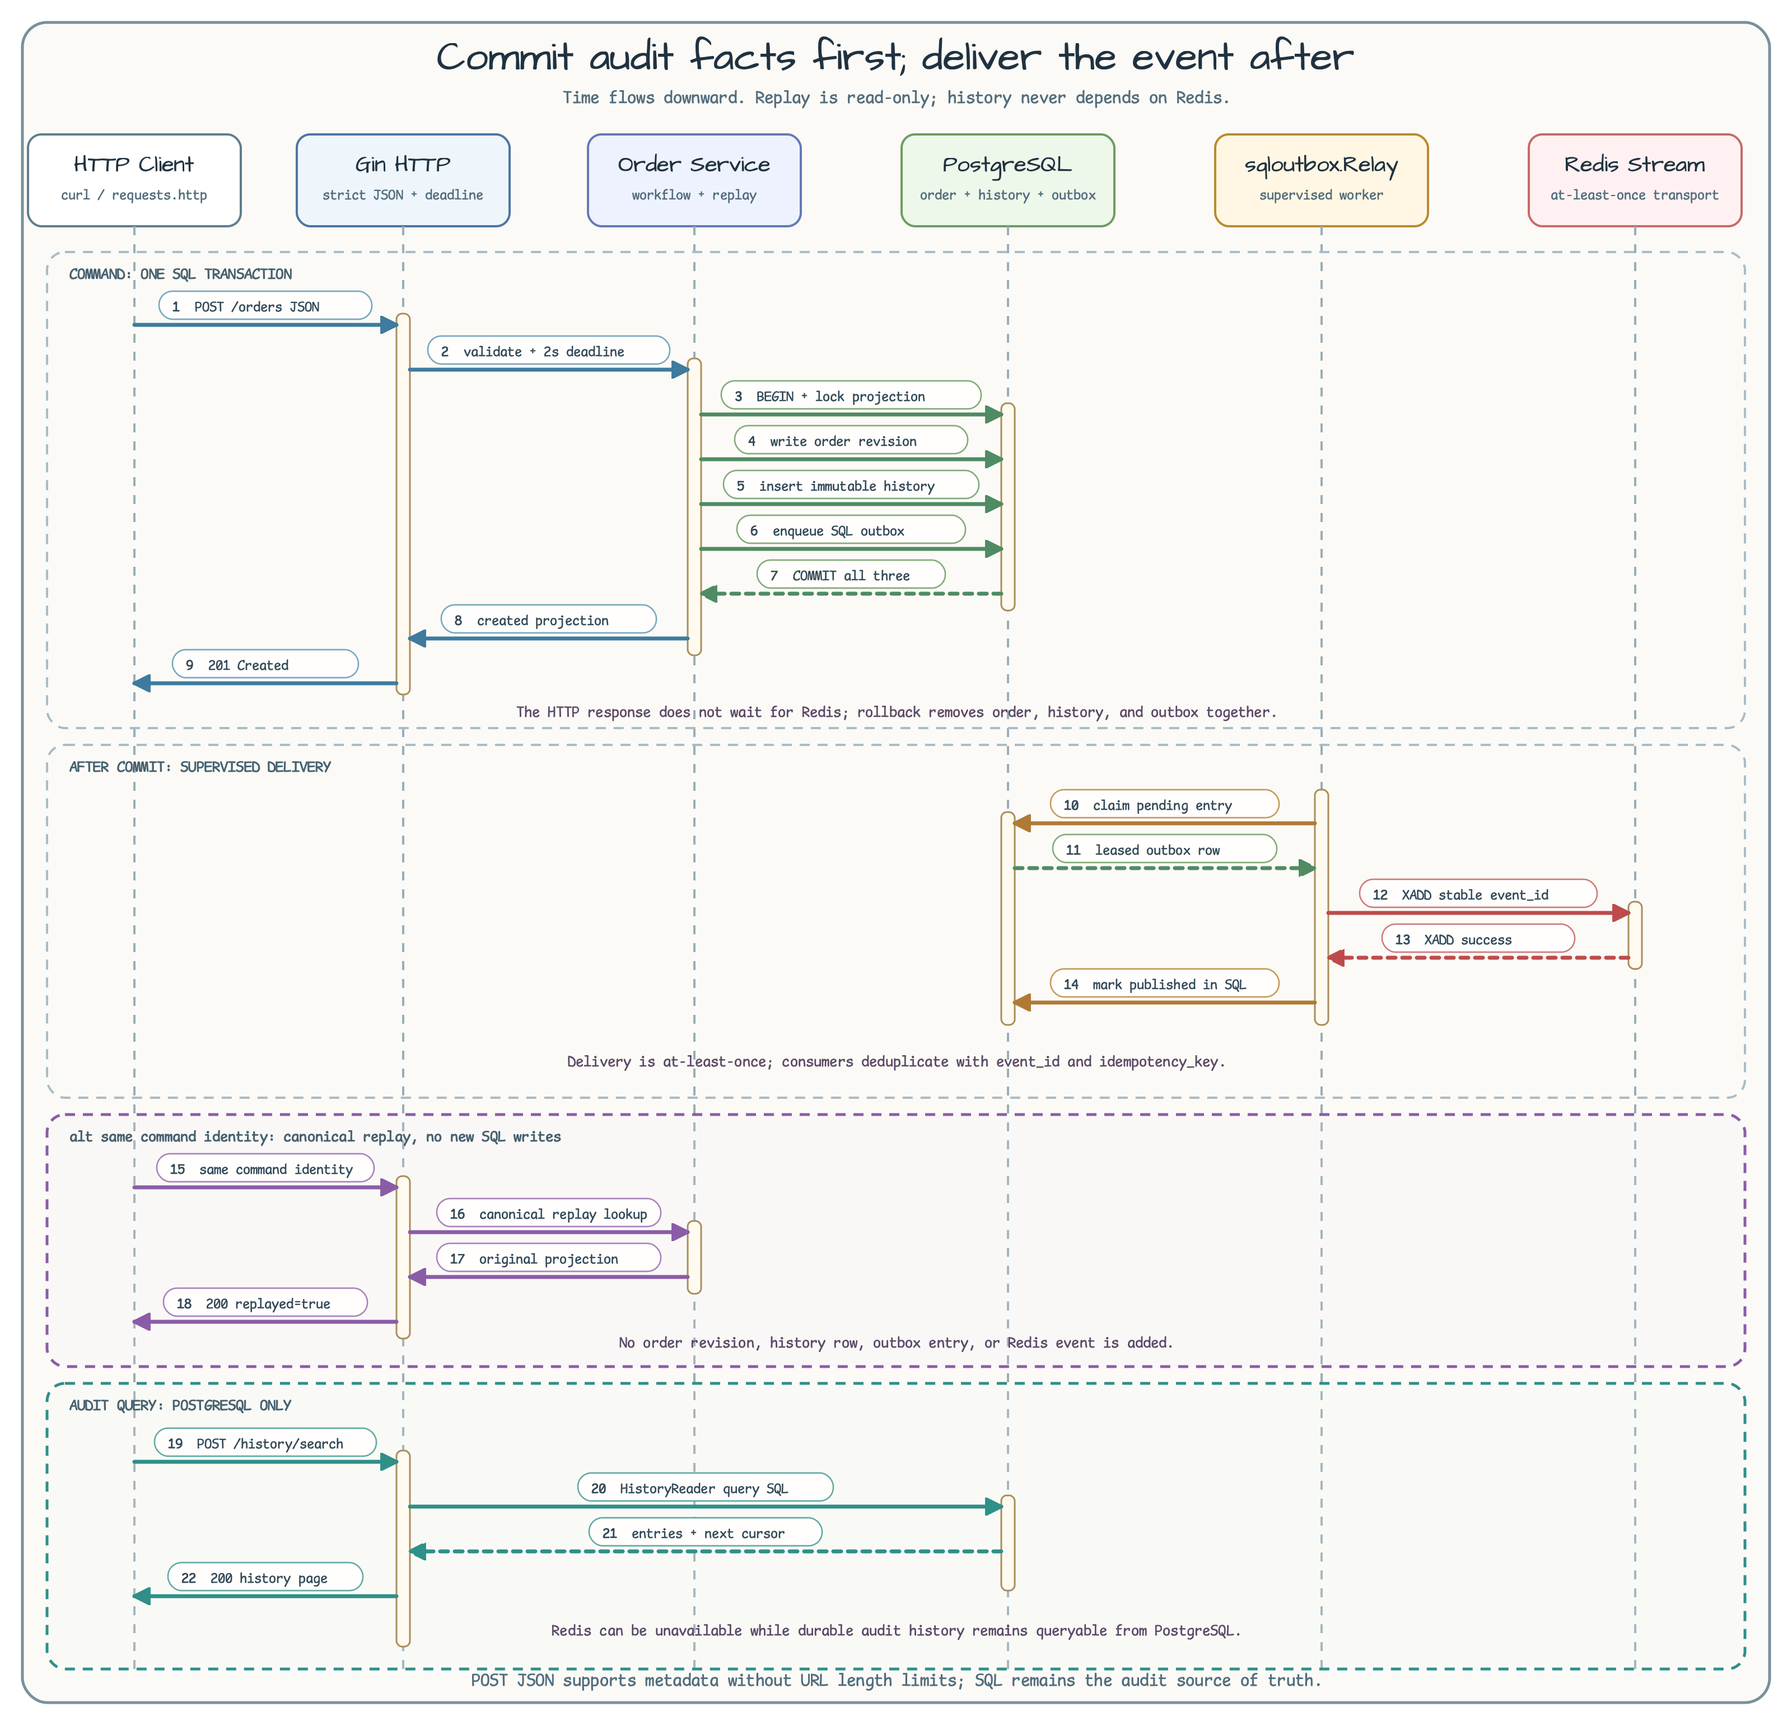
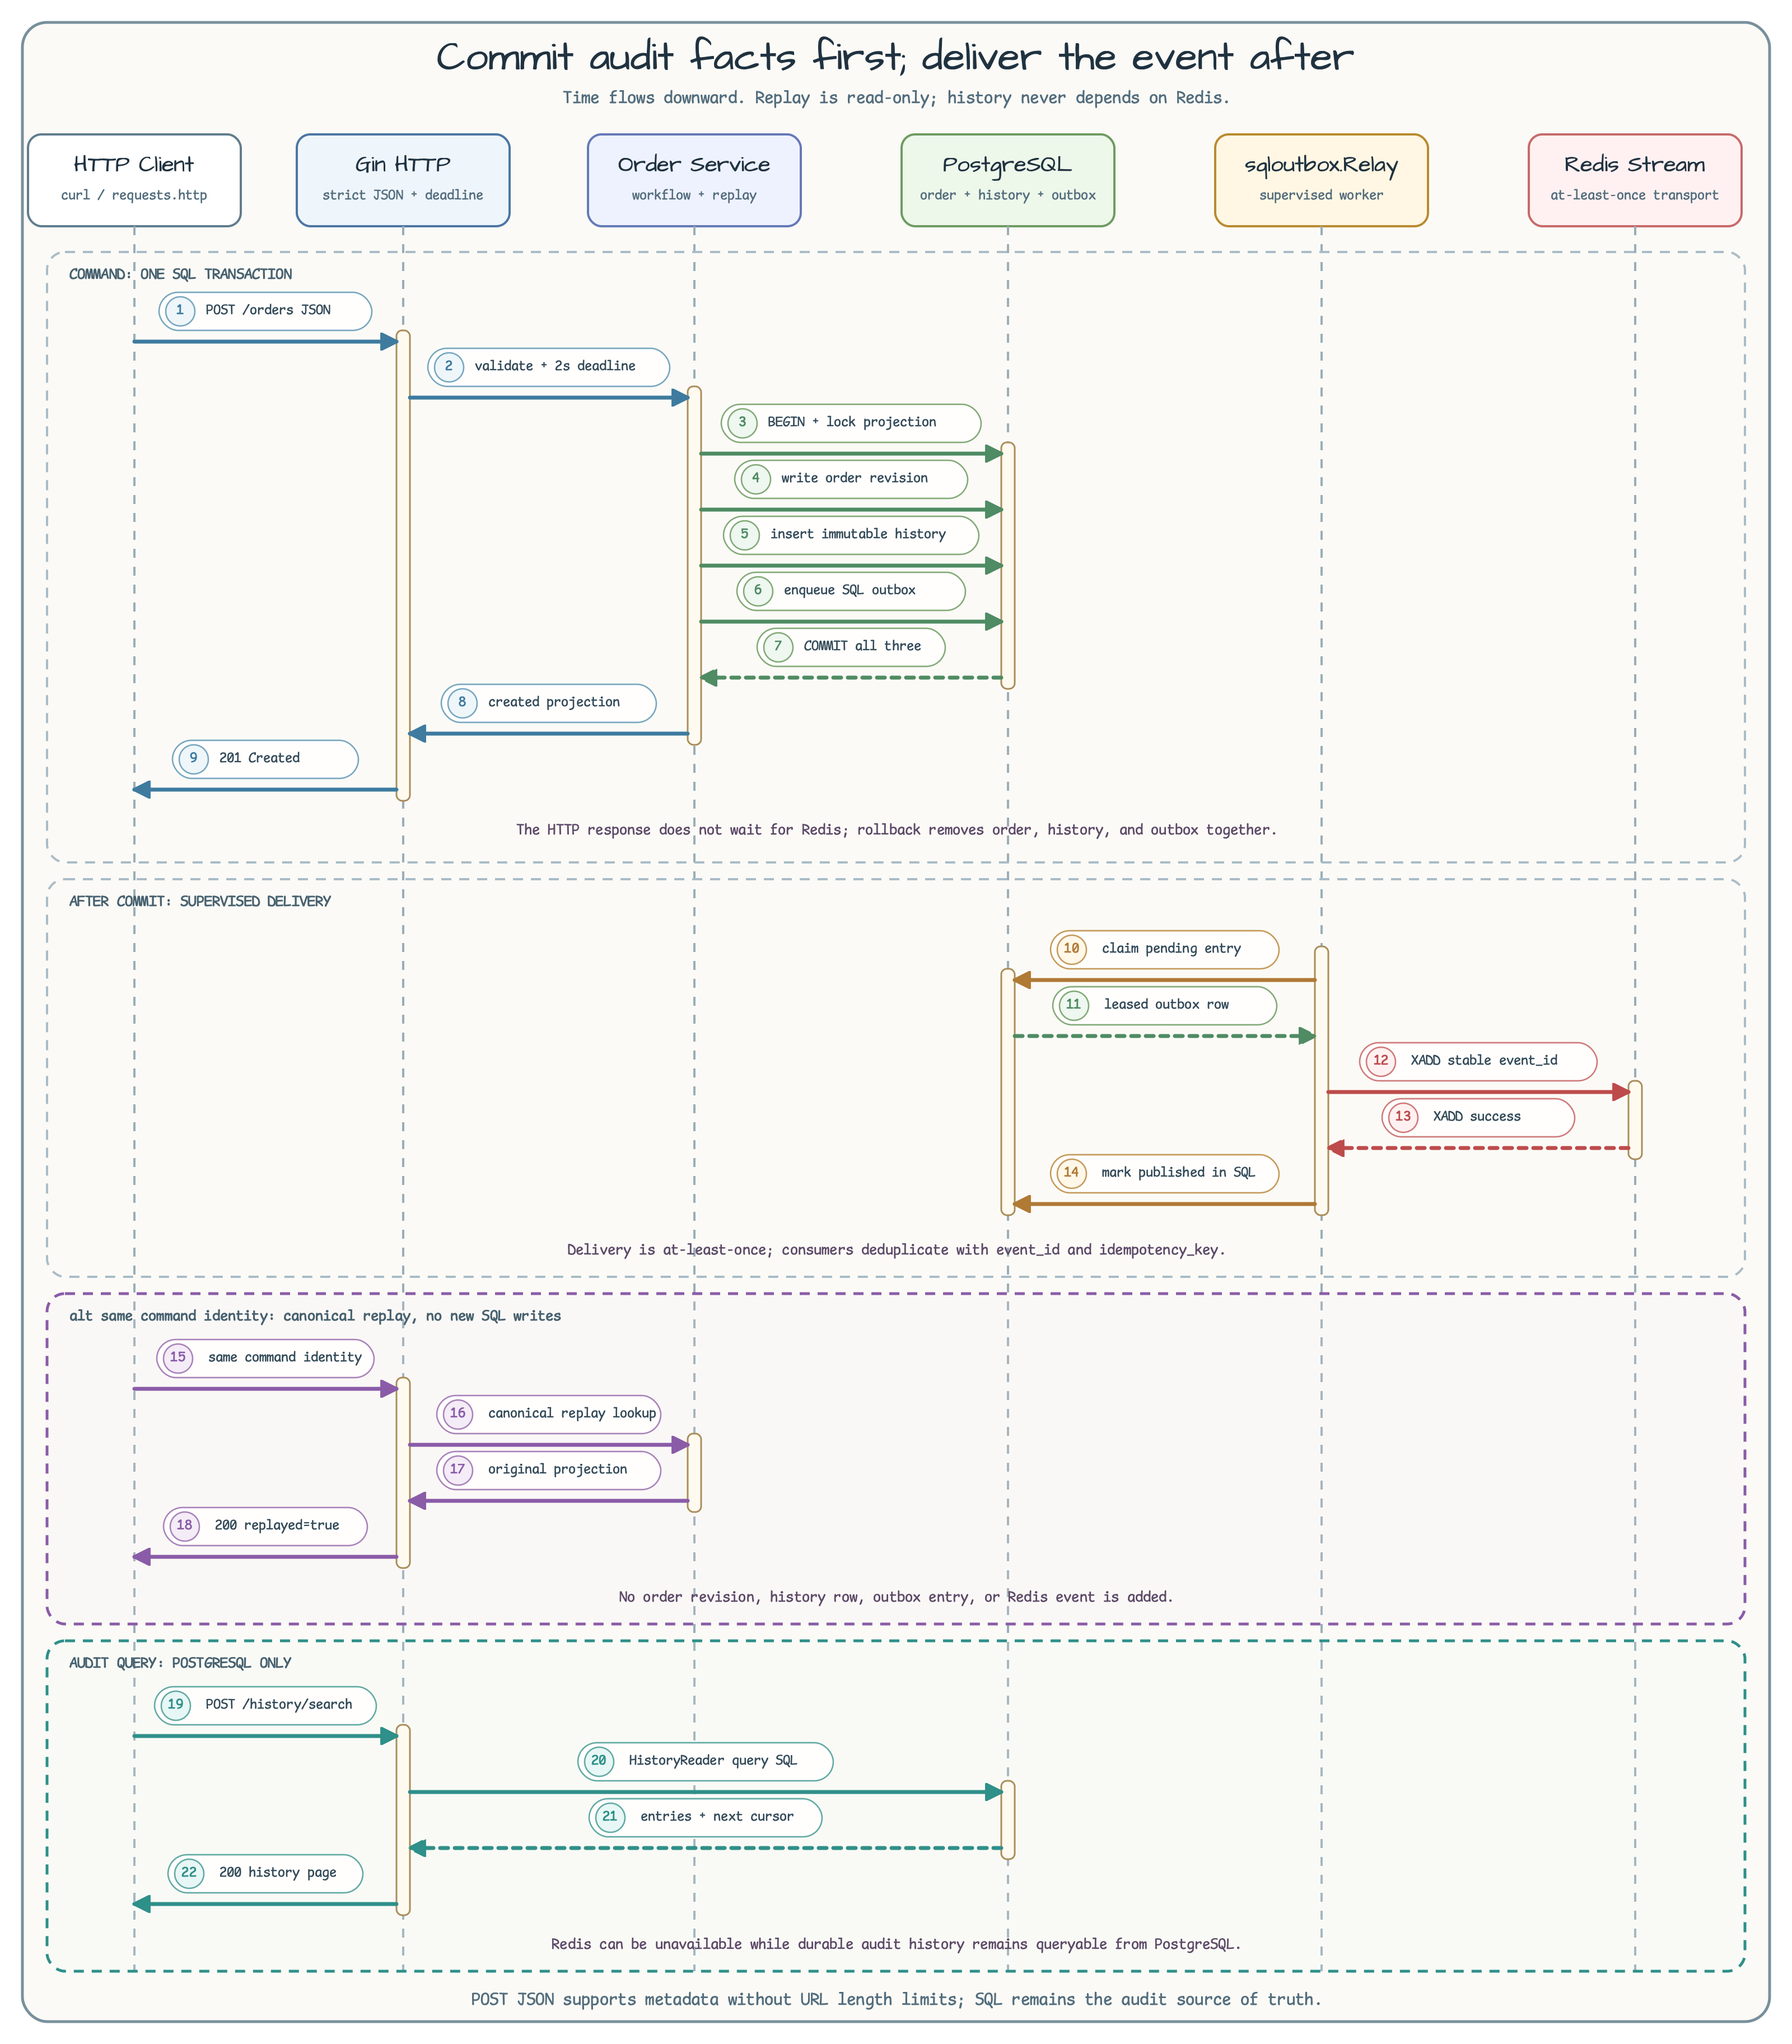
docs: align audited workflow sequence labels

diff --git a/docs/review/2026-07-14-issue-68-audited-order-workflow-outbox.md b/docs/review/2026-07-14-issue-68-audited-order-workflow-outbox.md
@@ -57,7 +57,7 @@ the compare-and-swap loop termination explicit. The final lint run reported
 | Asset | Automated evidence | Render and eye inspection |
 | --- | --- | --- |
[3 lines of base64/hex data omitted]
 
 The rendered PNG inspection explicitly checked every arrowhead after SVG to
 PNG conversion, terminal straight clearance relative to marker size, rounded
@@ -65,7 +65,10 @@ bend placement, receiver direction, label/card overlap, route merging,
 clipping, and whitespace. The sequence diagram initially had a phase-title and
 pill overlap that automated geometry checks did not report. Moving the first
 message rows and activation bars fixed it; the final render and pixel crops were
-then inspected again.
+then inspected again. A later best-practices comparison also found that the
+plain inline call numbers used an older label style. All 22 labels now use the
+approved 34-pixel pill with a semantic-color 13-pixel circular number badge,
+10-pixel label-to-line clearance, and at least 6 pixels between adjacent rows.
 
 ## Fresh Validation
 

diff --git a/docs/lessons/2026-07-14-issue-68-audited-order-workflow-outbox.md b/docs/lessons/2026-07-14-issue-68-audited-order-workflow-outbox.md
@@ -74,14 +74,24 @@ required: it caught a phase-title and pill overlap that the geometry scripts did
 not flag. After moving the first message rows and activation bars, both the full
 preview and all original-resolution crops were inspected again.
 
+Sequence style must be compared visually with the current best-practices
+reference, not inferred from an older nearby repository diagram. The first
+version used a rounded pill but left the call number as plain inline text. The
+approved baseline separates the number into a semantic-color circular badge
+inside a 34-pixel pill. Applying that pattern to all 22 messages also required
+larger row, phase, activation, lifeline, frame, and canvas coordinates so the
+badge did not force labels onto message lines.
+
 For future diagrams, retain this order:
 
 1. audit connector counts, endpoints, crossings, card intrusions, and bend
    geometry in the SVG;
 2. render PNG deterministically and compare hashes on a second render;
 3. inspect every arrowhead direction and marker clearance in the PNG;
-4. inspect original-pixel crops for text, pill, activation, and card overlap;
-5. rerun every audit and eye inspection after any coordinate change.
+4. compare numbered pill and badge styling with the current best-practices
+   sequence PNG, including one- and two-digit numbers;
+5. inspect original-pixel crops for text, pill, activation, and card overlap;
+6. rerun every audit and eye inspection after any coordinate change.
 
 ## Future Guard
 
